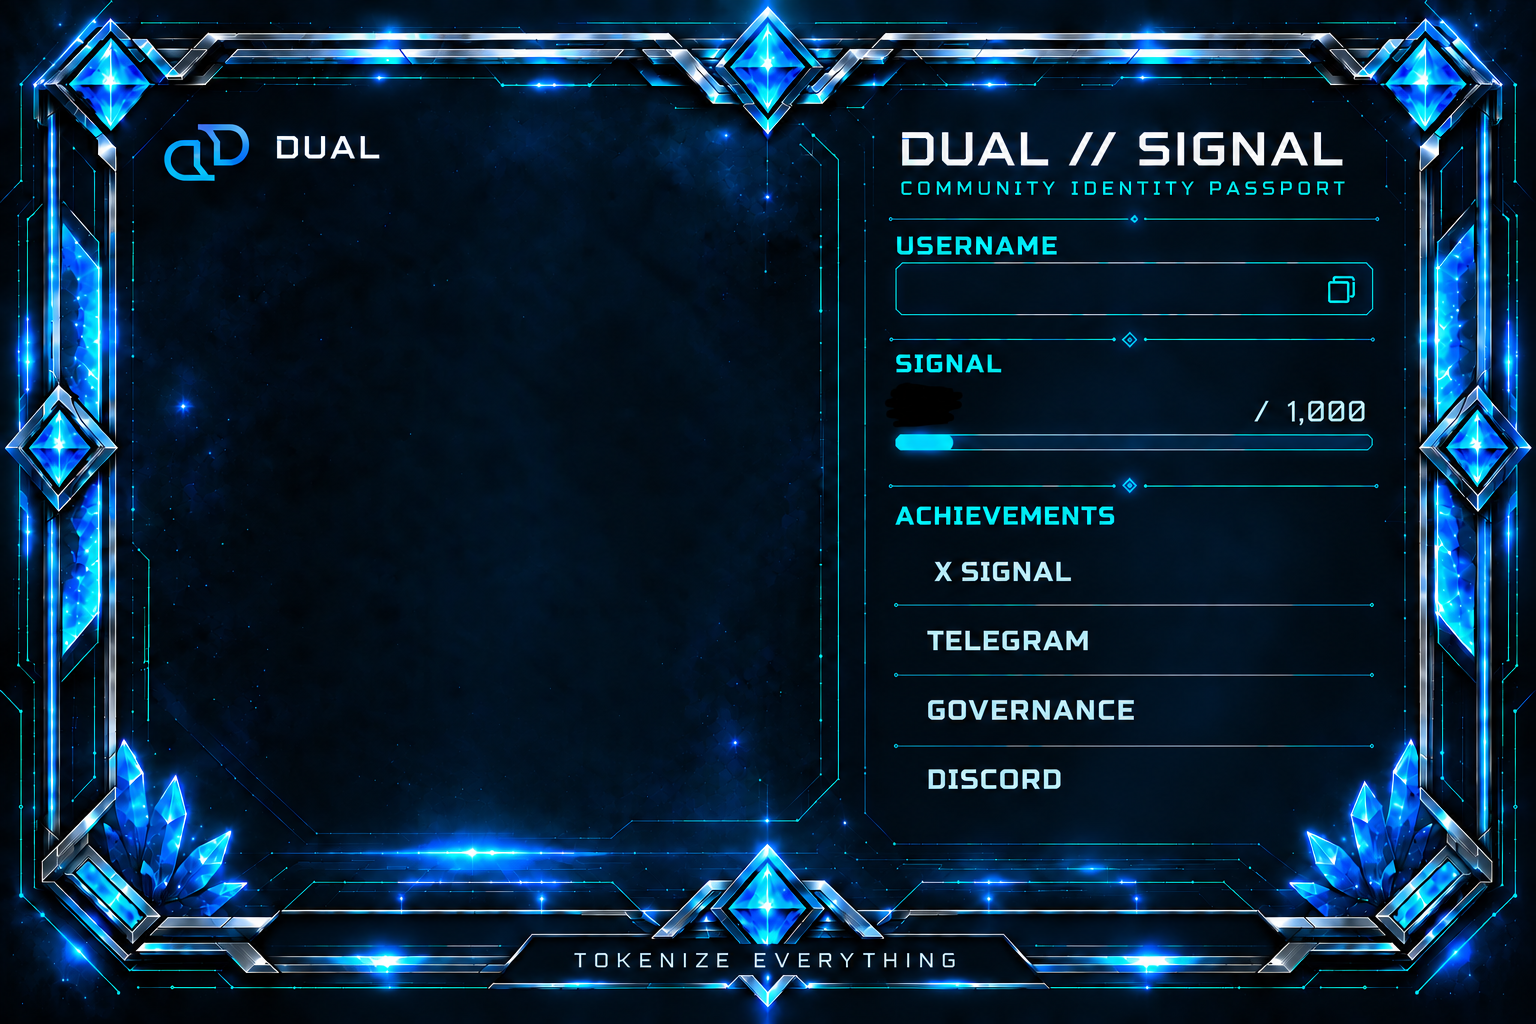
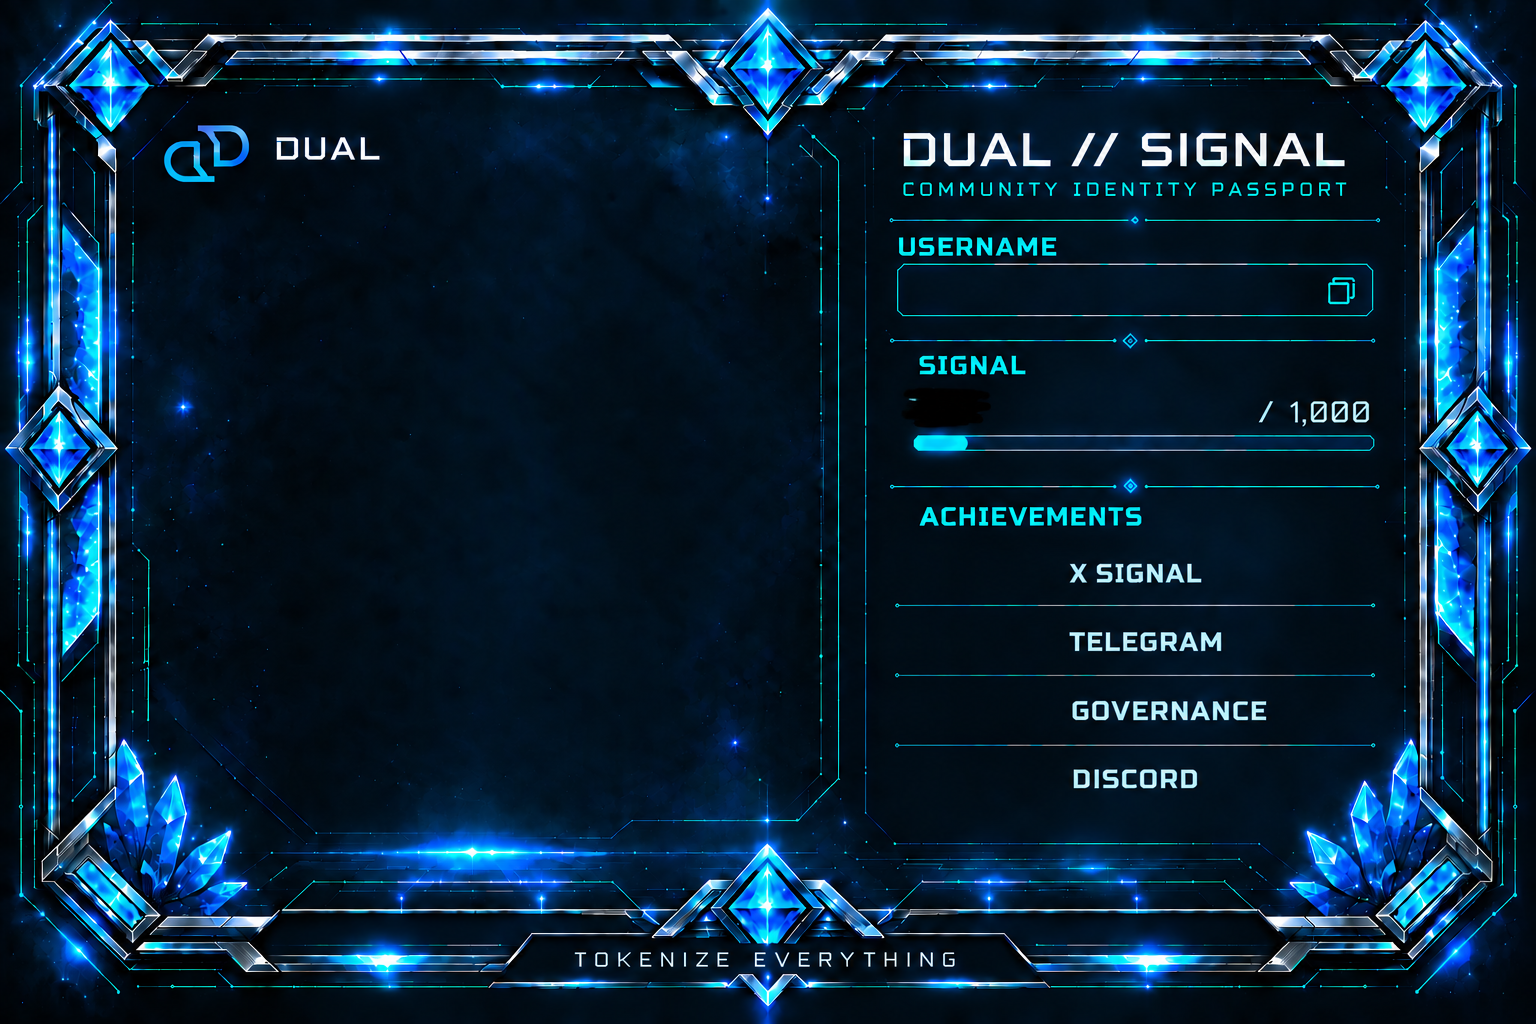
fix: nudge OG badge halfway back + update card background
OG pin: l:38 t:22 → l:41 t:15.5 (half-revert of prior move)
Card background replaced with updated asset.

diff --git a/src/app/faces/badge/page.tsx b/src/app/faces/badge/page.tsx
@@ -32,7 +32,7 @@ const C = {
 
 const L = {
   tier:     { l: 10, t: 6, w: 42, h: 74 },
-  og:       { l: 38, t: 22, w: 10 },
+  og:       { l: 41, t: 15.5, w: 10 },
   tierName: { l: 11, t: 73, w: 41 },
   wallet:   { l: 59.5, t: 24.5, w: 29, h: 6 },
   signal:   { l: 57.5, t: 35.5, w: 24, h: 8 },
